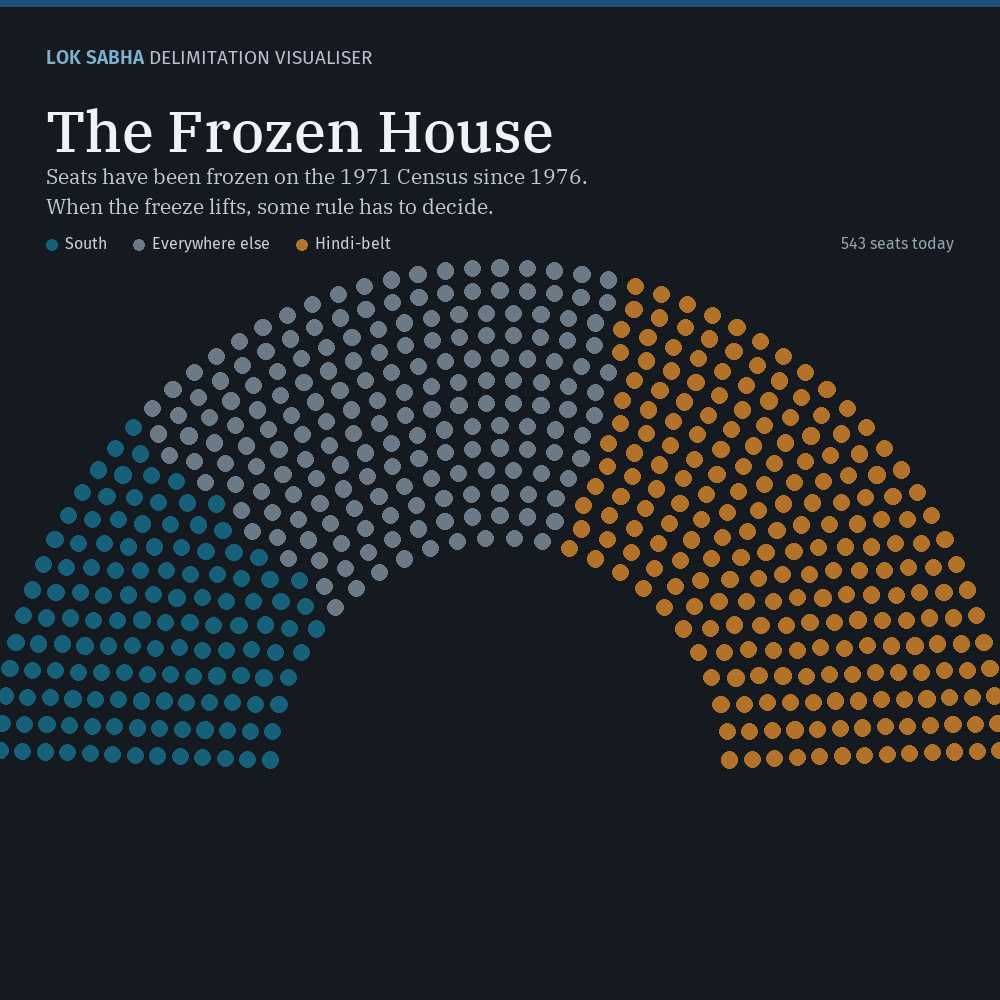
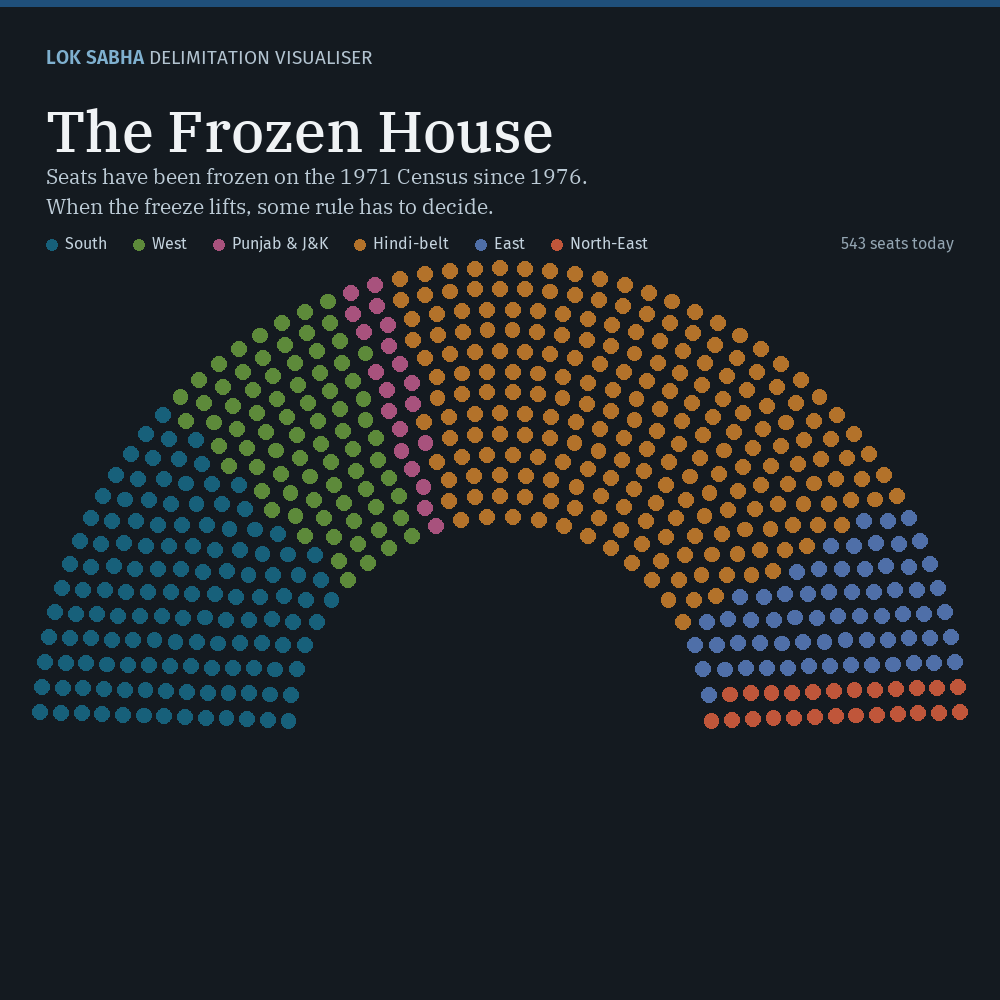
Six regional blocs, reordered presets, a seamless preset tray, softer hover
Blocs. The analytical grouping was south, Hindi-belt and "everywhere else",
which put Maharashtra, West Bengal, the North-East and Punjab in one grey
wedge. It is now six blocs drawn along language and region, the lines the
delimitation argument actually divides on, since party alignments change
between elections:
  South 131, West 78, Punjab & J&K 20, Hindi-belt 225, East 64, North-East 25.
Lakshadweep moves into the south. The Hindi-belt is unchanged, so every south
and Hindi-belt figure quoted on the page still holds. The chamber, share
panel, membership list (now with colour keys), social card and documentation
all carry the new split, and the order is defined once, in GROUP_ORDER.

Presets. "Start from" is now "Presets". The Freeze (identical to The House
Today) and A Phased Transition are gone, and Fill the New Chamber is added:
888 seats, the capacity of the new Lok Sabha chamber. The order is The House
Today, The 2026 Bill, The Uniform +50% Offer, On 2036 Projections, Nobody
Loses, Fill the New Chamber. Every caption figure was rechecked against the
engine.

The presets now sit in one quiet tray with square corners. The chosen preset
is a white tile with a thin accent rule instead of a solid blue fill, and
buttons stretch so a wrapped tray stays a clean rectangle.

The map hover outline is a translucent slate at 1.3px instead of solid ink at
2px. On the social card the chamber now fits whole, so the blocs at the far
end of the arc are visible.

Changed region(s): [[0.0, 0.217, 1.0, 0.775]]

diff --git a/js/app.js b/js/app.js
@@ -6,7 +6,7 @@
 --------------------------------------------------------------------------- */
 import { allocate, METHODS, quotaViolations } from "./apportion.js";
 import { loadAll, buildRows, groupTotals, fmt,
-         YEAR_LABELS, YEAR_NOTES, GROUP_LABELS, ZONE_LABELS, BLOC_COLOURS } from "./data.js";
+         YEAR_LABELS, YEAR_NOTES, GROUP_LABELS, GROUP_ORDER, ZONE_LABELS, BLOC_COLOURS } from "./data.js";
 import { createMap, renderLegend, MODES } from "./map.js";
 import { renderBlocks } from "./blocks.js";
 import { renderShares, renderMembership, renderVoteWeight, renderTable, toCSV } from "./panels.js";
@@ -24,22 +24,24 @@ const DEFAULTS = {
   bloc: "group",
 };
 
-/* Presets encode arguments, so each carries a caption saying what it shows. */
+/* Presets encode arguments, so each carries a caption saying what it shows.
+   Ordered by political weight: where things stand, the proposal that was
+   voted on, the compromise offered in that debate, and what waiting costs,
+   followed by the assurance and the ceiling the new building was built for.
+   Every figure in a caption is checked against the engine. */
 const PRESETS = [
   { id: "today", label: "The House Today", state: { house: 543, method: "hare", year: "2011" },
     caption: "543 seats allocated in proportion to the 2011 Census. This is what the freeze is holding back: the south loses 17 seats, the Hindi-belt gains 23." },
-  { id: "freeze", label: "The Freeze, as a Constraint", state: { house: 543, method: "hare", year: "2011", maxChange: 0 },
-    caption: "Cap every state at zero change and you reproduce the current house exactly. The freeze is not a population rule at all — it is a rule about not moving." },
   { id: "bill2026", label: "The 2026 Bill", state: { house: 815, method: "hare", year: "2011" },
     caption: "815 seats from the states, the figure in the Constitution (131st Amendment) Bill, 2026, allocated proportionally on 2011 population. The bill was negatived on 17 April 2026." },
   { id: "shah", label: "The Uniform +50% Offer", state: { house: 815, method: "statusQuo", year: "2011" },
     caption: "Every state's seats scaled up by the same proportion, the arrangement reported to have been offered during the April debate. Nobody's share moves at all — which is exactly why it resolves nothing about representation." },
-  { id: "nobody", label: "Nobody Loses", state: { house: 815, method: "hare", year: "2011", protectAll: true },
-    caption: "Grow the house to 815 and forbid any state from losing a seat. It is feasible — but only because the house grows by half. Try it at 543 and nothing moves at all." },
-  { id: "phased", label: "A Phased Transition", state: { house: 600, method: "hare", year: "2011", maxChange: 2 },
-    caption: "Cap every state at two seats of movement. The south ends up with MORE seats than it holds today. The cap, not the house size, is what does the protecting." },
   { id: "y2036", label: "On 2036 Projections", state: { house: 543, method: "hare", year: "2036_proj" },
-    caption: "The same rule on the official 2036 projection. The southern loss roughly doubles, from 17 seats to 30. Every published projection quotes the 2011 figure." },
+    caption: "The same rule on the official 2036 projection. The southern loss roughly doubles, from 17 seats to 30, and the east loses 11. Every published projection quotes the 2011 figure." },
+  { id: "nobody", label: "Nobody Loses", state: { house: 815, method: "hare", year: "2011", protectAll: true },
+    caption: "Grow the house to 815 and forbid any state from losing a seat — the assurance offered to the south. It is feasible, but only because the house grows by half, and the south's share still falls from 24.1% to 20.7%. Try it at 543 and nothing moves at all." },
+  { id: "chamber888", label: "Fill the New Chamber", state: { house: 888, method: "hare", year: "2011" },
+    caption: "The Lok Sabha chamber in the new Parliament building seats 888. Fill it on 2011 population and Uttar Pradesh alone goes from 80 seats to 146, and the Hindi-belt holds 410 of the 888. Even at this size, Arunachal Pradesh, Goa, and Dadra & Nagar Haveli and Daman & Diu each lose a seat." },
 ];
 
 let D = null, state = { ...DEFAULTS }, mapApi = null, hovered = null, lastRows = [];
@@ -198,7 +200,7 @@ function labelFor(id) {
 }
 
 function renderChamber(rows) {
-  const blocs = buildBlocs(rows, state.bloc, BLOC_COLOURS)
+  const blocs = buildBlocs(rows, state.bloc, BLOC_COLOURS, GROUP_ORDER)
     .map(b => ({ ...b, label: labelFor(b.id) }));
   const total = blocs.reduce((a, b) => a + b.seats, 0);
 

diff --git a/css/style.css b/css/style.css
@@ -139,14 +139,28 @@ table, .num, input[type="number"], .blocks, .readout, .legend, .headline { font-
 
 .presets { border-bottom: 1px solid var(--rule-soft); padding-bottom: 16px; margin-bottom: 18px; }
 .presets-label { font-size: 13px; color: var(--muted); display: block; margin-bottom: 8px; }
-.preset-buttons { display: flex; flex-wrap: wrap; gap: 7px; }
-.preset {
-  font: inherit; font-size: 13px; cursor: pointer;
-  background: #eef1f3; color: var(--ink-2);
-  border: 1px solid var(--rule); padding: 7px 12px;
+/* One quiet tray rather than a row of boxed buttons: the presets read as a
+   single control, and the chosen one lifts out as a white tile with a thin
+   accent rule, instead of flooding solid blue. Square corners throughout. */
+.preset-buttons {
+  display: flex; flex-wrap: wrap; gap: 3px; padding: 3px;
+  background: #eef1f3; border: 1px solid var(--rule-soft);
 }
-.preset:hover { background: #e2e7eb; }
-.preset.is-on { background: var(--accent); border-color: var(--accent); color: #fff; }
+.preset {
+  font: inherit; font-size: 13px; font-weight: 500; cursor: pointer;
+  background: transparent; color: var(--muted);
+  border: 0; padding: 8px 14px;
+  box-shadow: inset 0 -2px 0 transparent;
+  /* Stretch to fill each row, so a tray that wraps stays a clean rectangle
+     rather than ending in a ragged half-empty line. */
+  flex: 1 1 auto; text-align: center;
+}
+.preset:hover { background: rgba(255, 255, 255, .6); color: var(--ink); }
+.preset.is-on {
+  background: #fff; color: var(--accent-ink);
+  box-shadow: inset 0 -2px 0 var(--accent), 0 1px 2px rgba(22, 25, 28, .08);
+}
+.preset:focus-visible { outline-offset: -2px; }
 .preset-caption {
   margin: 10px 0 0; font-size: 13.5px; color: var(--ink-2); min-height: 1.4em;
 }
@@ -302,7 +316,9 @@ select:hover, input[type="number"]:hover { border-color: var(--faint); }
   fill: none; pointer-events: none; stroke-linejoin: round;
   vector-effect: non-scaling-stroke;
 }
-#map path.hl-hover { stroke: var(--ink); stroke-width: 2; }
+/* Soft rather than black: a translucent slate reads on the palest fill and the
+   darkest blue alike without shouting over the colour it is outlining. */
+#map path.hl-hover { stroke: rgba(40, 52, 62, .55); stroke-width: 1.3; }
 #map path.hl-hover.is-focus { stroke: var(--focus); stroke-width: 2.4; }
 #map path.unit.is-absent, #map path.lifted.is-absent { fill: url(#hatch) !important; }
 
@@ -383,6 +399,7 @@ select:hover, input[type="number"]:hover { border-color: var(--faint); }
 .share-legend { font-size: 12px; color: var(--muted); margin-top: 10px; }
 .membership { font-size: 12.5px; color: var(--muted); margin-top: 12px; line-height: 1.55; }
 .membership p { margin: 0 0 7px; }
+.membership .cl-dot { display: inline-block; margin-right: 6px; vertical-align: 0; }
 
 .vw-table { width: 100%; border-collapse: collapse; font-size: 13px; }
 .vw-table th { text-align: left; font-weight: 600; color: var(--muted); font-size: 12px; padding: 0 0 5px; }
@@ -635,7 +652,8 @@ select:hover, input[type="number"]:hover { border-color: var(--faint); }
   #map .stage { transition: opacity 420ms ease, filter 420ms ease, transform 560ms cubic-bezier(.2, .7, .2, 1); }
   #map .lift path.lifted { transition: fill 180ms ease, filter 360ms ease; }
   .share-fill { transition: width 220ms ease; }
-  .preset, .btn, .seg { transition: background-color 120ms ease; }
+  .btn, .seg { transition: background-color 120ms ease; }
+  .preset { transition: background-color 160ms ease, color 160ms ease, box-shadow 200ms ease; }
 }
 
 @media print {

diff --git a/js/data.js b/js/data.js
@@ -32,7 +32,22 @@ export const YEAR_NOTES = {
   "2036_proj": "Official projection. The southern loss here is roughly double the loss on 2011 numbers.",
 };
 
-export const GROUP_LABELS = { south: "South", hindi: "Hindi-belt", rest: "Everywhere else" };
+/* Analytical blocs, NOT official. The delimitation argument divides along
+   language more than along party lines, which shift from one election to the
+   next: the Hindi-speaking heartland gains seats from any population rule, and
+   every non-Hindi region it gains them from has its own stake in the fight.
+   The south leads the opposition to delimitation. Maharashtra and Gujarat are
+   large and roughly hold their ground. West Bengal and Odisha lose share. The
+   North-East's small states live on the one-seat minimum. Punjab and Jammu &
+   Kashmir are border regions with their own grievances: Punjab joined the
+   southern states' coalition against delimitation, and Jammu & Kashmir went
+   through its own contested redrawing in 2022. The order is a sweep round
+   the map, which is also the order the blocs take across the chamber. */
+export const GROUP_ORDER = ["south", "west", "north", "hindi", "east", "northeast"];
+export const GROUP_LABELS = {
+  south: "South", west: "West", north: "Punjab & J&K",
+  hindi: "Hindi-belt", east: "East", northeast: "North-East",
+};
 
 /* Zonal councils are OFFICIAL, unlike the analytical grouping above: they come
    from the States Reorganisation Act 1956 and the North Eastern Council Act
@@ -47,7 +62,11 @@ export const ZONE_LABELS = {
 /* Categorical fills for the chamber. Distinct in hue rather than only in
    lightness, so they survive greyscale and the common colour-blindness types. */
 export const BLOC_COLOURS = {
-  south: "#17607a", hindi: "#b3722a", rest: "#6b7a86",
+  /* Analytical blocs, chosen so neighbours across the chamber never share a
+     hue family. */
+  south: "#17607a", west: "#5d8a3a", north: "#a8527d",
+  hindi: "#b3722a", east: "#4f6fa8", northeast: "#c0563a",
+  /* Zonal councils. */
   southern: "#17607a", northern: "#7a5aa0", central: "#b3722a",
   eastern: "#c0563a", western: "#3f7d5e", nec: "#d2a02e", none: "#98a2aa",
 };
@@ -148,7 +167,7 @@ export function buildRows(units, result, year) {
 
 export function groupTotals(rows) {
   const out = {};
-  for (const g of ["south", "hindi", "rest"]) {
+  for (const g of GROUP_ORDER) {
     const rs = rows.filter(r => r.group === g && !r.absent);
     out[g] = {
       seats: rs.reduce((a, r) => a + r.seats, 0),

diff --git a/js/panels.js b/js/panels.js
@@ -3,14 +3,14 @@
    The export matters: it is what turns this from a thing people look at into a
    thing people cite.
 --------------------------------------------------------------------------- */
-import { fmt, GROUP_LABELS, groupTotals } from "./data.js";
+import { fmt, GROUP_LABELS, GROUP_ORDER, BLOC_COLOURS, groupTotals } from "./data.js";
 
 /* ------------------------------------------------------------- share panel */
 export function renderShares(el, rows, houseSize) {
   const g = groupTotals(rows);
   const live = rows.filter(r => !r.absent).reduce((a, r) => a + r.seats, 0) || houseSize;
 
-  el.innerHTML = ["south", "hindi", "rest"].map(key => {
+  el.innerHTML = GROUP_ORDER.map(key => {
     const now = g[key].current / 543;
     const next = g[key].seats / live;
     const delta = next - now;
@@ -35,9 +35,10 @@ export function renderShares(el, rows, houseSize) {
 }
 
 export function renderMembership(el, units) {
-  el.innerHTML = ["south", "hindi", "rest"].map(key => {
+  el.innerHTML = GROUP_ORDER.map(key => {
     const names = units.filter(u => u.analytical_group === key).map(u => u.name).sort();
-    return `<p><b>${GROUP_LABELS[key]}:</b> ${names.join(", ")}.</p>`;
+    return `<p><span class="cl-dot" style="background:${BLOC_COLOURS[key]}"></span>
+      <b>${GROUP_LABELS[key]}:</b> ${names.join(", ")}.</p>`;
   }).join("") +
   `<p class="fine">These are analytical groupings chosen for this tool. They are not
    official and carry no legal status. The official grouping in <code>units.json</code>

diff --git a/js/hemicycle.js b/js/hemicycle.js
@@ -69,11 +69,11 @@ export function layout(n, { innerRatio = 0.46, padAngle = 0.035 } = {}) {
 
 /* Assemble the blocs in the order they should appear across the chamber, and
    hand back both the seat list and a legend. */
-export function buildBlocs(rows, mode, palette) {
+export function buildBlocs(rows, mode, palette, groupOrder = []) {
   const key = mode === "zonal" ? "zone" : "group";
   const ORDER = mode === "zonal"
     ? ["southern", "western", "central", "northern", "eastern", "nec", "none"]
-    : ["south", "rest", "hindi"];
+    : groupOrder;
 
   const buckets = new Map();
   for (const r of rows) {

diff --git a/index.html b/index.html
@@ -85,7 +85,7 @@
   <!-- ------------------------------------------------------------------ -->
   <section id="controls" class="controls" aria-label="Allocation settings">
     <div class="presets" role="group" aria-label="Presets">
-      <span class="presets-label">Start from</span>
+      <span class="presets-label">Presets</span>
       <div class="preset-buttons" id="preset-buttons"></div>
       <p class="preset-caption" id="preset-caption" aria-live="polite"></p>
     </div>

diff --git a/scripts/build_units.py b/scripts/build_units.py
@@ -8,42 +8,42 @@ import json, sys, os
 
 # code, name, type, seats, pop2011, zone, group, lat, lon, pop_source_key
 U = [
- ("AN","Andaman & Nicobar Islands","UT",   1,    380581,"none",       "rest", 11.70, 92.70,"prs"),
+ ("AN","Andaman & Nicobar Islands","UT",   1,    380581,"none",       "east", 11.70, 92.70,"prs"),
  ("AP","Andhra Pradesh","State",         25,  49577103,"southern",   "south",15.90, 80.00,"derived_ap"),
- ("AR","Arunachal Pradesh","State",       2,   1383727,"nec",         "rest", 28.00, 94.50,"prs"),
- ("AS","Assam","State",                  14,  31205576,"nec",         "rest", 26.20, 92.80,"prs"),
+ ("AR","Arunachal Pradesh","State",       2,   1383727,"nec",         "northeast", 28.00, 94.50,"prs"),
+ ("AS","Assam","State",                  14,  31205576,"nec",         "northeast", 26.20, 92.80,"prs"),
  ("BR","Bihar","State",                  40, 104099452,"eastern",    "hindi",25.60, 85.50,"prs"),
- ("CH","Chandigarh","UT",                 1,   1055450,"northern",    "rest", 30.74, 76.79,"prs"),
+ ("CH","Chandigarh","UT",                 1,   1055450,"northern",    "north", 30.74, 76.79,"prs"),
  ("CT","Chhattisgarh","State",           11,  25545198,"central",    "hindi",21.30, 82.00,"prs"),
- ("DH","Dadra & Nagar Haveli and Daman & Diu","UT",2,586956,"western","rest", 20.30, 72.95,"derived_dh"),
+ ("DH","Dadra & Nagar Haveli and Daman & Diu","UT",2,586956,"western","west", 20.30, 72.95,"derived_dh"),
  ("DL","NCT of Delhi","UT",               7,  16787941,"northern",   "hindi",28.65, 77.15,"prs"),
- ("GA","Goa","State",                     2,   1458545,"western",     "rest", 15.40, 74.00,"prs"),
- ("GJ","Gujarat","State",                26,  60439692,"western",     "rest", 22.50, 71.50,"prs"),
+ ("GA","Goa","State",                     2,   1458545,"western",     "west", 15.40, 74.00,"prs"),
+ ("GJ","Gujarat","State",                26,  60439692,"western",     "west", 22.50, 71.50,"prs"),
  ("HR","Haryana","State",                10,  25351462,"northern",   "hindi",29.20, 76.30,"prs"),
  ("HP","Himachal Pradesh","State",        4,   6864602,"northern",   "hindi",31.80, 77.30,"prs"),
- ("JK","Jammu & Kashmir","UT",            5,  12267013,"northern",    "rest", 33.50, 75.30,"derived_jk"),
+ ("JK","Jammu & Kashmir","UT",            5,  12267013,"northern",    "north", 33.50, 75.30,"derived_jk"),
  ("JH","Jharkhand","State",              14,  32988134,"eastern",    "hindi",23.70, 85.50,"prs"),
  ("KA","Karnataka","State",              28,  61095297,"southern",   "south",14.80, 76.00,"prs"),
  ("KL","Kerala","State",                 20,  33406061,"southern",   "south",10.50, 76.40,"prs"),
- ("LA","Ladakh","UT",                     1,    274289,"northern",    "rest", 34.20, 77.60,"derived_la"),
- ("LD","Lakshadweep","UT",                1,     64473,"none",        "rest", 10.60, 72.60,"prs"),
+ ("LA","Ladakh","UT",                     1,    274289,"northern",    "north", 34.20, 77.60,"derived_la"),
+ ("LD","Lakshadweep","UT",                1,     64473,"none",        "south", 10.60, 72.60,"prs"),
  ("MP","Madhya Pradesh","State",         29,  72626809,"central",    "hindi",23.50, 78.50,"prs"),
- ("MH","Maharashtra","State",            48, 112374333,"western",     "rest", 19.40, 76.00,"prs"),
- ("MN","Manipur","State",                 2,   2855794,"nec",         "rest", 24.70, 93.90,"prs"),
- ("ML","Meghalaya","State",               2,   2966889,"nec",         "rest", 25.50, 91.30,"prs"),
- ("MZ","Mizoram","State",                 1,   1097206,"nec",         "rest", 23.30, 92.80,"prs"),
- ("NL","Nagaland","State",                1,   1978502,"nec",         "rest", 26.10, 94.40,"prs"),
- ("OD","Odisha","State",                 21,  41974218,"eastern",     "rest", 20.50, 84.50,"prs"),
+ ("MH","Maharashtra","State",            48, 112374333,"western",     "west", 19.40, 76.00,"prs"),
+ ("MN","Manipur","State",                 2,   2855794,"nec",         "northeast", 24.70, 93.90,"prs"),
+ ("ML","Meghalaya","State",               2,   2966889,"nec",         "northeast", 25.50, 91.30,"prs"),
+ ("MZ","Mizoram","State",                 1,   1097206,"nec",         "northeast", 23.30, 92.80,"prs"),
+ ("NL","Nagaland","State",                1,   1978502,"nec",         "northeast", 26.10, 94.40,"prs"),
+ ("OD","Odisha","State",                 21,  41974218,"eastern",     "east", 20.50, 84.50,"prs"),
  ("PY","Puducherry","UT",                 1,   1247953,"southern",   "south",11.93, 79.83,"prs"),
- ("PB","Punjab","State",                 13,  27743338,"northern",    "rest", 31.00, 75.40,"prs"),
+ ("PB","Punjab","State",                 13,  27743338,"northern",    "north", 31.00, 75.40,"prs"),
  ("RJ","Rajasthan","State",              25,  68548437,"northern",   "hindi",26.80, 73.80,"prs"),
- ("SK","Sikkim","State",                  1,    610577,"nec",         "rest", 27.60, 88.50,"prs"),
+ ("SK","Sikkim","State",                  1,    610577,"nec",         "northeast", 27.60, 88.50,"prs"),
  ("TN","Tamil Nadu","State",             39,  72147030,"southern",   "south",11.00, 78.50,"prs"),
  ("TS","Telangana","State",              17,  35003674,"southern",   "south",17.90, 79.00,"derived_ts"),
- ("TR","Tripura","State",                 2,   3673917,"nec",         "rest", 23.80, 91.70,"prs"),
+ ("TR","Tripura","State",                 2,   3673917,"nec",         "northeast", 23.80, 91.70,"prs"),
  ("UP","Uttar Pradesh","State",          80, 199812341,"central",    "hindi",27.00, 80.80,"prs"),
  ("UK","Uttarakhand","State",             5,  10086292,"central",    "hindi",30.10, 79.20,"prs"),
- ("WB","West Bengal","State",            42,  91276115,"eastern",     "rest", 23.80, 87.80,"prs"),
+ ("WB","West Bengal","State",            42,  91276115,"eastern",     "east", 23.80, 87.80,"prs"),
 ]
 
 SOURCE_NOTES = {
@@ -371,7 +371,7 @@ doc = {
 os.makedirs("data", exist_ok=True)
 with open("data/units.json","w") as f: json.dump(doc,f,indent=2,ensure_ascii=False)
 print(f"OK. {len(units)} units, {tot_seats} seats, population {tot_pop:,}")
-for g in ("south","hindi","rest"):
+for g in ("south","west","north","hindi","east","northeast"):
     s = sum(u["current_seats"] for u in units if u["analytical_group"]==g)
     print(f"  {g:6s} {s:3d} seats  {s/tot_seats*100:5.1f}%")
 
@@ -395,7 +395,7 @@ if HIST or PROJ:
     print("\nShare of national population by analytical group (NOT official).")
     print("Years with an absent unit are marked *, and exclude it from both numerator and denominator.")
     print("  group  " + "".join(f"{y.replace('_proj',''):>9}" for y in ALL))
-    for g in ("south","hindi","rest"):
+    for g in ("south","west","north","hindi","east","northeast"):
         row = f"  {g:6s} "
         for y in ALL:
             have = [u for u in units if u["population"][y] is not None]

diff --git a/scripts/make_social_card.py b/scripts/make_social_card.py
@@ -23,8 +23,12 @@ PAPER = (242, 243, 244)
 MUTED = (147, 165, 178)
 BRAND = (127, 176, 207)
 RULE = (58, 74, 87)
-BLOC = {"south": (23, 96, 122), "hindi": (179, 114, 42), "rest": (107, 122, 134)}
-ORDER = ["south", "rest", "hindi"]
+# Must match GROUP_ORDER, GROUP_LABELS and BLOC_COLOURS in js/data.js.
+BLOC = {"south": (23, 96, 122), "west": (93, 138, 58), "north": (168, 82, 125),
+        "hindi": (179, 114, 42), "east": (79, 111, 168), "northeast": (192, 86, 58)}
+LABELS = {"south": "South", "west": "West", "north": "Punjab & J&K",
+          "hindi": "Hindi-belt", "east": "East", "northeast": "North-East"}
+ORDER = ["south", "west", "north", "hindi", "east", "northeast"]
 
 
 def font(name, size):
@@ -120,7 +124,7 @@ def build(width, height, path, compact=False):
     # The bloc key sits ABOVE the arc, in clear space. Putting it at the foot
     # left it sitting on top of the seats and unreadable.
     fk = font("FiraSans-Regular.ttf", 19 if not compact else 16)
-    keys = [("South", BLOC["south"]), ("Everywhere else", BLOC["rest"]), ("Hindi-belt", BLOC["hindi"])]
+    keys = [(LABELS[g], BLOC[g]) for g in ORDER]
     ky = y + (16 if not compact else 12)
     kx = pad
     for label, col in keys:
@@ -130,9 +134,11 @@ def build(width, height, path, compact=False):
     d.text((width - pad - d.textlength(f"{total} seats today", font=fk), ky),
            f"{total} seats today", font=fk, fill=MUTED)
 
-    # Chamber bled off the bottom edge, its crown clear of the key above it.
-    R = width * (0.44 if not compact else 0.50)
-    top = ky + (46 if not compact else 34)
+    # The WHOLE half-circle fits below the key. Bleeding it off the bottom edge
+    # looked grander, but with six blocs it cut the two at the far right end of
+    # the arc out of the picture while the key still listed them.
+    top = ky + (44 if not compact else 34)
+    R = min(width * (0.44 if not compact else 0.46), height - top - (22 if not compact else 40))
     draw_chamber(d, width / 2, top + R, R, totals)
 
     img.save(path, "PNG", optimize=True)

diff --git a/docs/DATA-NOTES.md b/docs/DATA-NOTES.md
@@ -72,10 +72,14 @@ would change the output of every rule with a per-unit minimum.
 
 Two groupings are provided. `zonal_council` follows the States Reorganisation
 Act 1956 and the North Eastern Council Act 1971, and is official.
-`analytical_group` is a south, Hindi-belt, everywhere-else split that exists
-only to drive the regional share panel. It is not official and the interface
-must say so wherever it appears. Under the current allocation the analytical
-split is 130 seats south, 225 Hindi-belt, 188 elsewhere.
+`analytical_group` is a six-bloc split — south, west, north (Punjab, Jammu &
+Kashmir, Ladakh, Chandigarh), hindi, east, northeast — that drives the regional
+share panel and the chamber's colouring. It is not official and the interface
+must say so wherever it appears. Under the current allocation the split is 131
+seats south, 78 west, 20 Punjab & J&K, 225 Hindi-belt, 64 east and 25
+North-East. (Until September 2026 this was a three-way south / Hindi-belt /
+everywhere-else split of 130 / 225 / 188, which the phase reports record;
+Lakshadweep moved into the south when the split was refined.)
 
 ## Findings already established, with their test assertions
 

diff --git a/METHODOLOGY.md b/METHODOLOGY.md
@@ -282,8 +282,10 @@ has not been found.
 - The 2016–2036 series are **projections**, made in 2019 and published in 2020.
   They predate both the 2027 Census and COVID-19 mortality.
 - Projected figures carry up to ±500 from thousands-rounding.
-- Regional groupings (south / Hindi-belt / everywhere else) drive one panel and
-  are **not official**. The official grouping carried in `units.json` is zonal
+- Regional blocs (South, West, Punjab & J&K, Hindi-belt, East, North-East)
+  drive the share panel and colour the chamber, and are **not official**. They
+  follow language and region rather than party, since the delimitation argument
+  divides that way and party alignments change between elections. The official grouping carried in `units.json` is zonal
   council membership, which cuts differently. Membership of the analytical
   groups is listed in the interface.
 - Vote weight is people per MP against the national average. The smallest units
